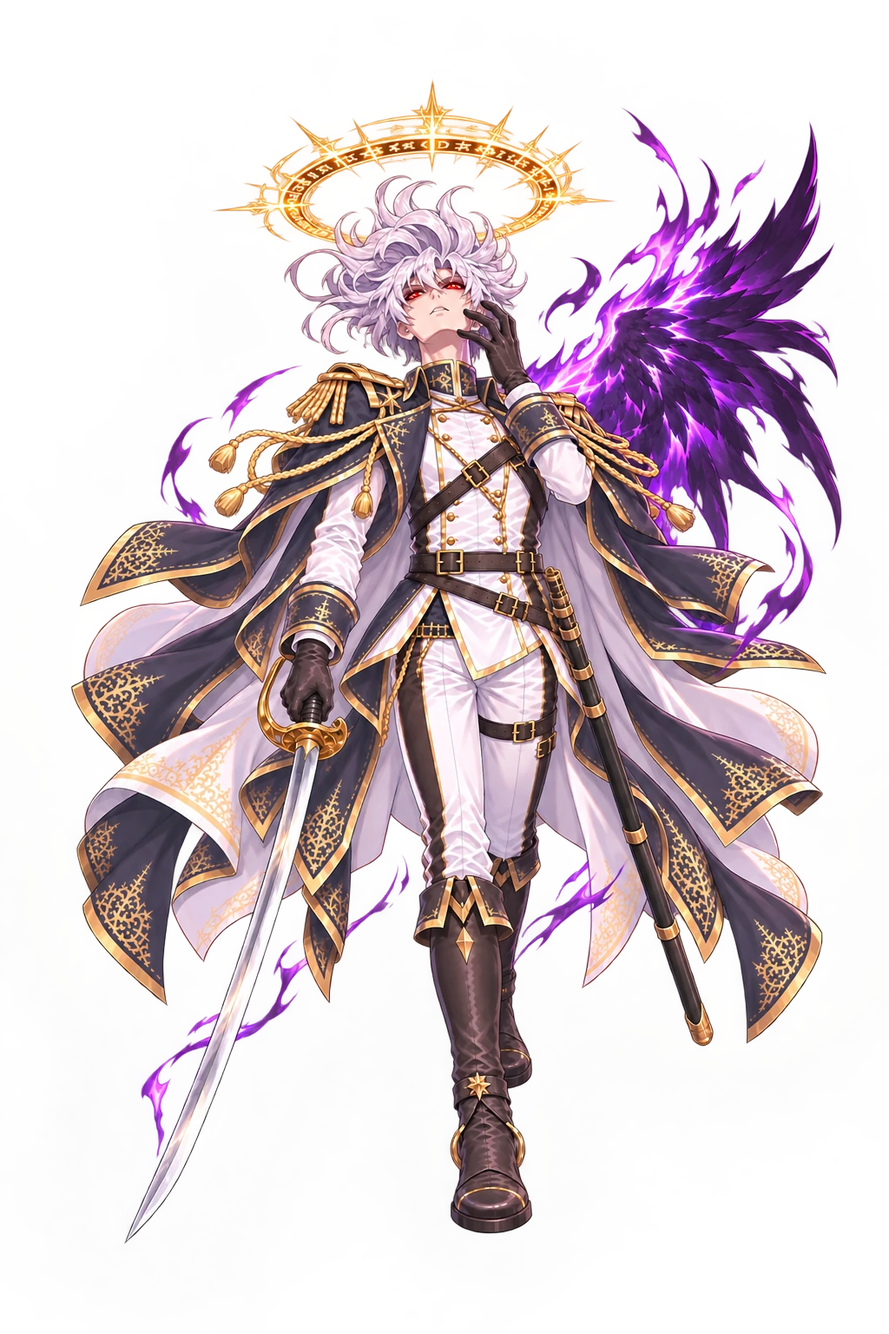
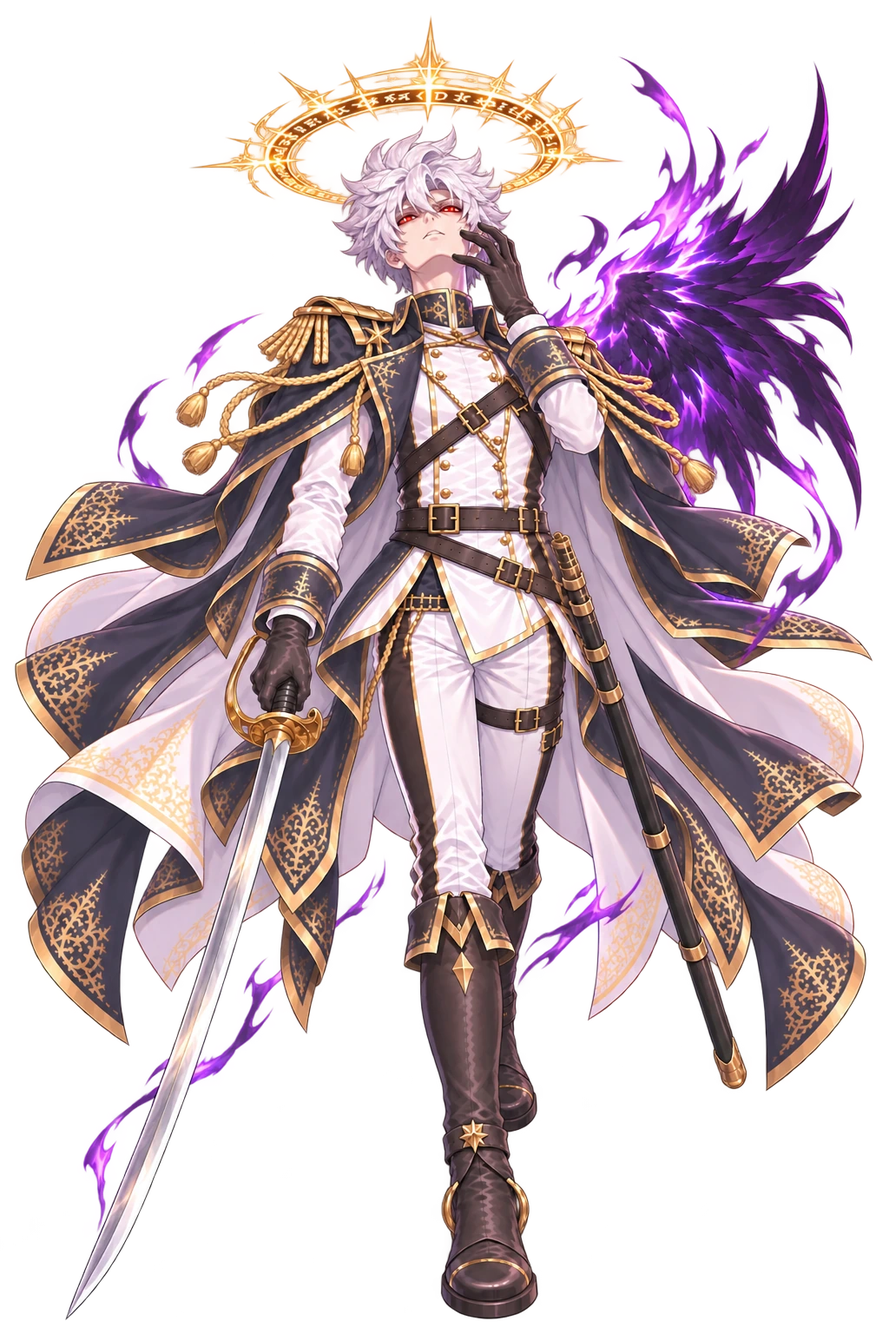
ver -2378 米夏 暴走重出（頭髮長度與畫風照原圖）；地底地圖地名改報「西部大熔谷」（Ray 更正：不是聖王廳那條路），HANDOFF 同步

diff --git a/flight/index.html b/flight/index.html
@@ -3,7 +3,7 @@
 <head>
 <meta charset="utf-8">
 <meta name="viewport" content="width=device-width,initial-scale=1,maximum-scale=1,user-scalable=no,viewport-fit=cover">
-<script src="../orientation.js?v=2377"></script>
+<script src="../orientation.js?v=2378"></script>
 <script>
 /* 介面字譯文（ver -1909）：這一頁是非模組，程式一開跑就讀字串 —— 所以譯文表要**同步**載
    （document.write，只在選了有譯文的語言時）。語言判定與 i18n.js 的 LANG 同一套
@@ -11,7 +11,7 @@
 (function(){
   var l=null; try{ l=localStorage.getItem('tivot.lang'); }catch(e){}
   if(!l){ try{ var n=(navigator.languages&&navigator.languages[0])||navigator.language||''; if(String(n).toLowerCase().indexOf('es')===0) l='es'; }catch(e){} }
-  if(['es'].indexOf(l)>=0) document.write('<script src="../i18n/script/'+l+'.classic.js?v=2377"><\/script><script src="../i18n/ui/'+l+'.classic.js?v=2377"><\/script>');
+  if(['es'].indexOf(l)>=0) document.write('<script src="../i18n/script/'+l+'.classic.js?v=2378"><\/script><script src="../i18n/ui/'+l+'.classic.js?v=2378"><\/script>');
 })();
 function i18nT(s){ var t=window.__TIVOT_TR; return (t && typeof s==='string' && t[s]!=null) ? t[s] : s; }
 document.addEventListener('DOMContentLoaded', function(){
@@ -237,7 +237,7 @@ document.addEventListener('DOMContentLoaded', function(){
   /* ver -2217：門圖含楣（kerberos_gate，＝主遊戲同一張）—— 底圖往上延伸到楣的上緣（--fk-gate-top，負值，layoutFKerb 寫）。
      畫在 ::before：門的子元素（紋章／箭／鉚釘）排在它之後，自然疊在上面。 */
   #fkerbDoor::before{content:'';position:absolute;left:0;right:0;top:var(--fk-gate-top,0px);bottom:0;
-    background-image:url('../resources/vfx/kerberos_gate.webp?v=2377');
+    background-image:url('../resources/vfx/kerberos_gate.webp?v=2378');
     background-repeat:no-repeat;background-size:100% 100%;pointer-events:none;}
   #fkerb.rise #fkerbDoor{transform:translateY(calc(var(--fkerb-rise,0px) * -1));}
   /* 楣與其餘零件：全部是門的子元素＝同一剛體，門上推它們跟著上去
@@ -260,8 +260,8 @@ document.addEventListener('DOMContentLoaded', function(){
       radial-gradient(circle at 50% 22%, rgba(0,0,0,.72) 40%, rgba(0,0,0,0) 78%);
     box-shadow:inset 0 3px 7px rgba(0,0,0,.85);}
   #fkerbGear .fkg-shine{position:absolute;inset:0;mix-blend-mode:screen;opacity:.8;
-    -webkit-mask-image:url("../resources/vfx/kerberos_gear.webp?v=2377");
-    mask-image:url("../resources/vfx/kerberos_gear.webp?v=2377");
+    -webkit-mask-image:url("../resources/vfx/kerberos_gear.webp?v=2378");
+    mask-image:url("../resources/vfx/kerberos_gear.webp?v=2378");
     -webkit-mask-size:100% 100%;mask-size:100% 100%;
     -webkit-mask-repeat:no-repeat;mask-repeat:no-repeat;
     background:linear-gradient(114deg,
@@ -281,8 +281,8 @@ document.addEventListener('DOMContentLoaded', function(){
     filter:drop-shadow(0 3px 7px rgba(0,0,0,.9)) drop-shadow(0 0 2px rgba(0,0,0,.8));}
   #fkerbPend .fkp-shine{position:absolute;inset:0;pointer-events:none;
     mix-blend-mode:screen;opacity:.85;
-    -webkit-mask-image:url("../resources/vfx/kerberos_pendant.webp?v=2377");
-    mask-image:url("../resources/vfx/kerberos_pendant.webp?v=2377");
+    -webkit-mask-image:url("../resources/vfx/kerberos_pendant.webp?v=2378");
+    mask-image:url("../resources/vfx/kerberos_pendant.webp?v=2378");
     -webkit-mask-size:100% 100%;mask-size:100% 100%;
     -webkit-mask-repeat:no-repeat;mask-repeat:no-repeat;
     background:linear-gradient(114deg,
@@ -647,23 +647,23 @@ img:not([src]), img[src=""], img.img-broken{visibility:hidden !important;}
        ⚠ 要有，否則交棒那一格齒輪會憑空冒出來（同吊墜的理由）。
        ⚠ 排在 `.fk-plate` 之前 ＝ 團徽之下、槍棺之上。 -->
   <div id="fkerbGear"><i class="fkg-well"></i>
-    <img src="../resources/vfx/kerberos_gear.webp?v=2377" alt=""><i class="fkg-shine"></i></div>
+    <img src="../resources/vfx/kerberos_gear.webp?v=2378" alt=""><i class="fkg-shine"></i></div>
   <div id="fkerbGearSm"><i class="fkg-well"></i>
-    <img src="../resources/vfx/kerberos_gear.webp?v=2377" alt=""></div>
-  <img class="fk-plate" src="../resources/vfx/kerberos_plate.webp?v=2377" alt="">
-  <img class="fk-arrow n" src="../resources/vfx/kerberos_arrow.webp?v=2377" alt="">
-  <img class="fk-arrow e" src="../resources/vfx/kerberos_arrow.webp?v=2377" alt="">
-  <img class="fk-arrow s" src="../resources/vfx/kerberos_arrow.webp?v=2377" alt="">
-  <img class="fk-arrow w" src="../resources/vfx/kerberos_arrow.webp?v=2377" alt="">
-  <img class="fk-rivet r10" src="../resources/vfx/kerberos_rivet.webp?v=2377" alt="">
-  <img class="fk-rivet r2"  src="../resources/vfx/kerberos_rivet.webp?v=2377" alt="">
-  <img class="fk-rivet r4"  src="../resources/vfx/kerberos_rivet.webp?v=2377" alt="">
-  <img class="fk-rivet r8"  src="../resources/vfx/kerberos_rivet.webp?v=2377" alt="">
+    <img src="../resources/vfx/kerberos_gear.webp?v=2378" alt=""></div>
+  <img class="fk-plate" src="../resources/vfx/kerberos_plate.webp?v=2378" alt="">
+  <img class="fk-arrow n" src="../resources/vfx/kerberos_arrow.webp?v=2378" alt="">
+  <img class="fk-arrow e" src="../resources/vfx/kerberos_arrow.webp?v=2378" alt="">
+  <img class="fk-arrow s" src="../resources/vfx/kerberos_arrow.webp?v=2378" alt="">
+  <img class="fk-arrow w" src="../resources/vfx/kerberos_arrow.webp?v=2378" alt="">
+  <img class="fk-rivet r10" src="../resources/vfx/kerberos_rivet.webp?v=2378" alt="">
+  <img class="fk-rivet r2"  src="../resources/vfx/kerberos_rivet.webp?v=2378" alt="">
+  <img class="fk-rivet r4"  src="../resources/vfx/kerberos_rivet.webp?v=2378" alt="">
+  <img class="fk-rivet r8"  src="../resources/vfx/kerberos_rivet.webp?v=2378" alt="">
   <!-- 吊墜（ver -412）：與主遊戲同一套（見 index.html 的 #kerbPend 與 style.css）。
        ⚠ 這一頁**必須也有** —— 遭遇時門是在這裡推上來的，交棒之後主遊戲那一半才接手；
          只有一邊掛吊墜的話，交棒那一格會憑空多出一個東西。 -->
   <div id="fkerbPend"><div class="fkp-swing"><div class="fkp-idle">
-    <img src="../resources/vfx/kerberos_pendant.webp?v=2377" alt=""><i class="fkp-shine"></i>
+    <img src="../resources/vfx/kerberos_pendant.webp?v=2378" alt=""><i class="fkp-shine"></i>
   </div></div></div>
 </div></div>
 <div id="boot">
@@ -685,11 +685,11 @@ img:not([src]), img[src=""], img.img-broken{visibility:hidden !important;}
   <div id="bMsg"><small id="bootMsg"></small></div>
 </div>
 
-<script src="settlement.js?v=2377"></script>
+<script src="settlement.js?v=2378"></script>
 <!-- 閒聊對話的**內容**獨立成一支：方便加台詞、加觸發條件而不必碰引擎。
      ⚠ 一般 <script>（非 module）→ TALKS / talkPeriod / talkPick 是全域，
        而且會在下面這段 inline 之前執行完，所以 inline 內可以直接用。 -->
-<script src="talks.js?v=2377"></script>
+<script src="talks.js?v=2378"></script>
 <script>
 /* 破圖框一律不畫（ver -1881，同主頁 main.js 那一支，這一頁是另一個 document）。 */
 document.addEventListener('error', e=>{ const t=e.target; if(t && t.tagName==='IMG') t.classList.add('img-broken'); }, true);
@@ -765,7 +765,7 @@ const COLOR_URL  = 'silvermoon_terrain.png?v=b18827be'  + TERRAIN_V;
    以前是手寫的，於是從 -911 起就沒有人記得動它 —— 而 HUD 上的版本號正是 Ray
    在手機上確認「我現在跑的是哪一版」的唯一依據（鐵律 7：一個量一個計算點；
    ver -626：版本號不動就等於沒有版本號）。**不要手改。** */
-const FLIGHT_VER = 'ver -2377';
+const FLIGHT_VER = 'ver -2378';
 const MAP_SCALE  = /[?&]world=cave/.test(location.search) ? 10 : 20;   // 地底的圖加密成 1536²（ver -2369，build_cave.py 的 SUPER）：一格 10 世界單位，世界大小不變
 const INV_SCALE  = 1/MAP_SCALE;
 const PEAK_SCALE = 520;   // 高度圖 255 對應的世界高度（越大山越陡）
@@ -7152,7 +7152,7 @@ function caveRoomTick(){
   caveRoomNow=hit;
   const R=CAVE_ROOMS[hit], pn=document.getElementById('place');
   document.getElementById('pnm').textContent=R[0];
-  document.getElementById('pty').textContent=R[6]?'—　往聖王廳 G3　—':'—　地底大空洞　—';
+  document.getElementById('pty').textContent='—　西部大熔谷　—';
   pn.classList.add('show');
   clearTimeout(caveRoomT); caveRoomT=setTimeout(()=>pn.classList.remove('show'), R[6]?4000:1800);
 }

diff --git a/index.html b/index.html
@@ -16,7 +16,7 @@
 <link rel="apple-touch-icon" href="resources/background/tivot_emblem.png?v=9220f8bb">
 <title>TIVOT</title>
 <!-- 全域鎖直向（真鎖 + 橫向擋板）；classic script，需在版面就緒前掛上 -->
-<script src="orientation.js?v=2377"></script>
+<script src="orientation.js?v=2378"></script>
 <!-- 離線包（ver -2256）：註冊 sw.js；主畫面 App 裡出現「下載離線包」鈕 -->
 <script src="offline.js"></script>
 <!-- ══ 效能探針・計數層（ver -850，Ray：「沒有辦法寫一個偵測程式進去看是什麼
@@ -65,74 +65,74 @@
 <script type="importmap">
 {
   "imports": {
-    "./audio.js": "./audio.js?v=2377",
-    "./config.js": "./config.js?v=2377",
-    "./i18n.js": "./i18n.js?v=2377",
-    "./main.js": "./main.js?v=2377",
-    "./offline.js": "./offline.js?v=2377",
-    "./orientation.js": "./orientation.js?v=2377",
-    "./state.js": "./state.js?v=2377",
-    "./sw.js": "./sw.js?v=2377",
-    "./telemetry.js": "./telemetry.js?v=2377",
-    "./modules/beatpick.js": "./modules/beatpick.js?v=2377",
-    "./modules/blink.js": "./modules/blink.js?v=2377",
-    "./modules/breath.js": "./modules/breath.js?v=2377",
-    "./modules/combat.js": "./modules/combat.js?v=2377",
-    "./modules/defense.js": "./modules/defense.js?v=2377",
-    "./modules/enemy.js": "./modules/enemy.js?v=2377",
-    "./modules/eyefx.js": "./modules/eyefx.js?v=2377",
-    "./modules/gear.js": "./modules/gear.js?v=2377",
-    "./modules/groundShadow.js": "./modules/groundShadow.js?v=2377",
-    "./modules/haptics.js": "./modules/haptics.js?v=2377",
-    "./modules/inn.js": "./modules/inn.js?v=2377",
-    "./modules/inspector.js": "./modules/inspector.js?v=2377",
-    "./modules/loot.js": "./modules/loot.js?v=2377",
-    "./modules/partner.js": "./modules/partner.js?v=2377",
-    "./modules/saint.js": "./modules/saint.js?v=2377",
-    "./modules/sakura.js": "./modules/sakura.js?v=2377",
-    "./modules/save.js": "./modules/save.js?v=2377",
-    "./modules/settings.js": "./modules/settings.js?v=2377",
-    "./modules/story.js": "./modules/story.js?v=2377",
-    "./modules/sway.js": "./modules/sway.js?v=2377",
-    "./modules/tone.js": "./modules/tone.js?v=2377",
-    "./modules/town.js": "./modules/town.js?v=2377",
-    "./modules/transition.js": "./modules/transition.js?v=2377",
-    "./modules/tutorial.js": "./modules/tutorial.js?v=2377",
-    "./modules/weapon.js": "./modules/weapon.js?v=2377",
-    "./script/bg_index.js": "./script/bg_index.js?v=2377",
-    "./script/blink.js": "./script/blink.js?v=2377",
-    "./script/clock.js": "./script/clock.js?v=2377",
-    "./script/enemies.js": "./script/enemies.js?v=2377",
-    "./script/evaluation.js": "./script/evaluation.js?v=2377",
-    "./script/eyefx.js": "./script/eyefx.js?v=2377",
-    "./script/inventory.js": "./script/inventory.js?v=2377",
-    "./script/loadout.js": "./script/loadout.js?v=2377",
-    "./script/mainScript.js": "./script/mainScript.js?v=2377",
-    "./script/progress.js": "./script/progress.js?v=2377",
-    "./script/shopcards.js": "./script/shopcards.js?v=2377",
-    "./script/shopstock.js": "./script/shopstock.js?v=2377",
-    "./script/speakers.js": "./script/speakers.js?v=2377",
-    "./script/sway.js": "./script/sway.js?v=2377",
-    "./script/town.js": "./script/town.js?v=2377",
-    "./script/weapons.js": "./script/weapons.js?v=2377",
-    "./i18n/en.js": "./i18n/en.js?v=2377",
-    "./i18n/es.js": "./i18n/es.js?v=2377",
-    "./i18n/ja.js": "./i18n/ja.js?v=2377",
-    "./i18n/scriptTr.js": "./i18n/scriptTr.js?v=2377",
-    "./i18n/zh.js": "./i18n/zh.js?v=2377",
-    "./i18n/script/es.classic.js": "./i18n/script/es.classic.js?v=2377",
-    "./i18n/script/es.js": "./i18n/script/es.js?v=2377",
-    "./i18n/ui/es.classic.js": "./i18n/ui/es.classic.js?v=2377",
-    "./i18n/ui/es.js": "./i18n/ui/es.js?v=2377"
+    "./audio.js": "./audio.js?v=2378",
+    "./config.js": "./config.js?v=2378",
+    "./i18n.js": "./i18n.js?v=2378",
+    "./main.js": "./main.js?v=2378",
+    "./offline.js": "./offline.js?v=2378",
+    "./orientation.js": "./orientation.js?v=2378",
+    "./state.js": "./state.js?v=2378",
+    "./sw.js": "./sw.js?v=2378",
+    "./telemetry.js": "./telemetry.js?v=2378",
+    "./modules/beatpick.js": "./modules/beatpick.js?v=2378",
+    "./modules/blink.js": "./modules/blink.js?v=2378",
+    "./modules/breath.js": "./modules/breath.js?v=2378",
+    "./modules/combat.js": "./modules/combat.js?v=2378",
+    "./modules/defense.js": "./modules/defense.js?v=2378",
+    "./modules/enemy.js": "./modules/enemy.js?v=2378",
+    "./modules/eyefx.js": "./modules/eyefx.js?v=2378",
+    "./modules/gear.js": "./modules/gear.js?v=2378",
+    "./modules/groundShadow.js": "./modules/groundShadow.js?v=2378",
+    "./modules/haptics.js": "./modules/haptics.js?v=2378",
+    "./modules/inn.js": "./modules/inn.js?v=2378",
+    "./modules/inspector.js": "./modules/inspector.js?v=2378",
+    "./modules/loot.js": "./modules/loot.js?v=2378",
+    "./modules/partner.js": "./modules/partner.js?v=2378",
+    "./modules/saint.js": "./modules/saint.js?v=2378",
+    "./modules/sakura.js": "./modules/sakura.js?v=2378",
+    "./modules/save.js": "./modules/save.js?v=2378",
+    "./modules/settings.js": "./modules/settings.js?v=2378",
+    "./modules/story.js": "./modules/story.js?v=2378",
+    "./modules/sway.js": "./modules/sway.js?v=2378",
+    "./modules/tone.js": "./modules/tone.js?v=2378",
+    "./modules/town.js": "./modules/town.js?v=2378",
+    "./modules/transition.js": "./modules/transition.js?v=2378",
+    "./modules/tutorial.js": "./modules/tutorial.js?v=2378",
+    "./modules/weapon.js": "./modules/weapon.js?v=2378",
+    "./script/bg_index.js": "./script/bg_index.js?v=2378",
+    "./script/blink.js": "./script/blink.js?v=2378",
+    "./script/clock.js": "./script/clock.js?v=2378",
+    "./script/enemies.js": "./script/enemies.js?v=2378",
+    "./script/evaluation.js": "./script/evaluation.js?v=2378",
+    "./script/eyefx.js": "./script/eyefx.js?v=2378",
+    "./script/inventory.js": "./script/inventory.js?v=2378",
+    "./script/loadout.js": "./script/loadout.js?v=2378",
+    "./script/mainScript.js": "./script/mainScript.js?v=2378",
+    "./script/progress.js": "./script/progress.js?v=2378",
+    "./script/shopcards.js": "./script/shopcards.js?v=2378",
+    "./script/shopstock.js": "./script/shopstock.js?v=2378",
+    "./script/speakers.js": "./script/speakers.js?v=2378",
+    "./script/sway.js": "./script/sway.js?v=2378",
+    "./script/town.js": "./script/town.js?v=2378",
+    "./script/weapons.js": "./script/weapons.js?v=2378",
+    "./i18n/en.js": "./i18n/en.js?v=2378",
+    "./i18n/es.js": "./i18n/es.js?v=2378",
+    "./i18n/ja.js": "./i18n/ja.js?v=2378",
+    "./i18n/scriptTr.js": "./i18n/scriptTr.js?v=2378",
+    "./i18n/zh.js": "./i18n/zh.js?v=2378",
+    "./i18n/script/es.classic.js": "./i18n/script/es.classic.js?v=2378",
+    "./i18n/script/es.js": "./i18n/script/es.js?v=2378",
+    "./i18n/ui/es.classic.js": "./i18n/ui/es.classic.js?v=2378",
+    "./i18n/ui/es.js": "./i18n/ui/es.js?v=2378"
   }
 }
 </script>
 <!-- BUST:END -->
-<link rel="stylesheet" href="style.css?v=2377">
+<link rel="stylesheet" href="style.css?v=2378">
   <!-- 拾得道具／道具欄／商店／懸賞榜（ver -380 抽出，飛行頁共用同一份）。
        ⚠ `data-lootsheet` 是給 `modules/loot.js` 認的：它看到已經掛過就不再掛一次。
          飛行頁沒有這一行，由那支模組自己掛上去。 -->
-  <link rel="stylesheet" href="css/lootsheet.css?v=2377" data-lootsheet="1">
+  <link rel="stylesheet" href="css/lootsheet.css?v=2378" data-lootsheet="1">
 <!-- 主畫面 App（standalone）偵測：首繪前在 <html> 蓋 .standalone，
      供 CSS 修 iOS 26 版面視窗少算頂部安全區高度（底部露黑帶）的問題 -->
 <script>
@@ -778,6 +778,6 @@
      ⚠ src 是**按下去才給**的（lazy）：不然每次開機都要多載一整個飛行頁。 -->
 <iframe id="flightFrame" title="飛行"></iframe>
 
-<script type="module" src="main.js?v=2377"></script>
+<script type="module" src="main.js?v=2378"></script>
 </body>
 </html>

diff --git a/script/speakers.js b/script/speakers.js
@@ -1657,7 +1657,7 @@ export const ART = {
     draw:       { src:'resources/si/misha_si_draw.webp?v=68b1b653', top:6, bot:1534, fx:0.434 },   // ver -1728：Ray 新出的拔刀圖（姿勢換了，取景重量；美術 09-25）
     salute:     { src:'resources/si/misha_si_salute.webp', top:9, bot:1520, fx:0.447 },
     side:       { src:'resources/si/misha_si_side.webp', top:16, bot:1512, fx:0.37 },
-    '暴走':     { fxShift:0, blink:'off', rescale:true, src:'resources/si/misha_si_coverfaceni.webp?v=83131ae8', top:205, bot:1419, fx:0.496 },   // ver -2377（Ray 11-03）：以新抓臉為底的暴走聖徒化 —— 頭髮因力量升騰、臉微仰、赤眼往下看、冷而銳；金色符文天使環＋右後方紫黑火焰之翼（1024×1536）；top/bot 量人不量翼與法環
+    '暴走':     { fxShift:0, blink:'off', rescale:true, src:'resources/si/misha_si_coverfaceni.webp?v=78bb54bf', top:152, bot:1518, fx:0.483 },   // ver -2378（Ray 11-03）：以新抓臉為底的暴走聖徒化，-2378 頭髮長度與畫風照原圖重出 —— 短髮因力量升騰、臉微仰、赤眼往下看、冷而銳；金色符文天使環＋右後方紫黑火焰之翼（1024×1536）；top/bot 量人不量翼與法環
     '抓臉閉嘴': { blink:'off', src:'resources/si/misha_si_coverfaceshut.webp?v=58da9959', top:8, bot:1512, fx:0.470 },   // ver -2356（Ray：「咬牙 閉嘴兩張都收」）：同抓臉（-2357 更陰暗），嘴緊閉不露牙
     '抓臉':     { blink:'off', src:'resources/si/misha_si_coverface.webp?v=bcf9a94c', top:0, bot:1525, fx:0.535 },   // ver -2377（Ray 11-03 交新圖）：左手戴黑手套扣臉、指縫露冷眼、咬牙、右手持軍刀、長鞘掛左；以下為舊版說明 —— ver -2356（Ray）：front 為底；森冷銳利、咬牙、臉上半部壓陰影、冷光眼（-2357 更陰暗）；左手插髮扣臉、銀髮穿過指縫、冷眼從指縫露出；右手持畜生道長刀、長鞘掛左腰
     wound:      { fxShift:0, blink:'off', src:'resources/si/misha_si_wound.webp?v=3a49219d', top:34, bot:1499, fx:0.403 },

diff --git a/config.js b/config.js
@@ -87,7 +87,7 @@ export const HITFX = {
  *     以為是快取卡住 —— 版本號不動就等於沒有版本號）。
  *  ⚠ 它同時是**暖開機戳記的鑰匙**（main.js 的 `WARM_BOOT`）：版本一變，
  *    上一版的戳記就失效 → 下一次開機重跑完整讀取。那正是改版後該有的行為。 */
-export const VERSION = 'ver 2026.11.03-2377';
+export const VERSION = 'ver 2026.11.03-2378';
 
 /* ══ 空中怪 16 隻的戰鬥卡（ver -2268）══ 每一隻一張 `flight_<鍵>`（飛行頁 `battleIdFor` 的命名），
    內容同羽蛇那一場：船戰、艦載武器音、連射間隔 180ms。⚠ 這份鍵清單在三處：這裡／
@@ -6154,7 +6154,7 @@ export const ASSET_VER = {
   'misha_si_closeopen_closed': '658c29c2',
   'misha_si_closeopen_half': '0379d48b',
   'misha_si_coverface': 'bcf9a94c',
-  'misha_si_coverfaceni': '83131ae8',
+  'misha_si_coverfaceni': '78bb54bf',
   'misha_si_coverfaceshut': '58da9959',
   'misha_si_draw': '68b1b653',
   'misha_si_draw_closed': 'ff69810f',

diff --git a/modules/story.js b/modules/story.js
@@ -3588,7 +3588,7 @@ const KERB_DIR='resources/vfx/';
    cache-buster（§5：檔名沒變、內容變了，瀏覽器照樣拿舊的那一份，而症狀只是
    「看起來沒變」）。版本號由 `tools/bust.py` 同步，路徑只由 `kerbUrl()` 組（鐵律 8）——
    飛行頁那一半是另一個 document，各有一份，改一邊要改另一邊。 */
-const KERB_V='?v=2377';
+const KERB_V='?v=2378';
 const kerbUrl=n=>KERB_DIR+n+'.webp'+KERB_V;
 /* 門的圖（ver -2218）：**每一道門都要先載完**（劇情讀取頁 `preloadStory`、城鎮那道 `loadScene`）——
    Ray：「讀圖的時候先跑槍棺出來才讀楣」「往上推的時候楣會消失」：合成後的 `kerberos_gate`（門＋楣）

diff --git a/HANDOFF.md b/HANDOFF.md
@@ -32,7 +32,8 @@
 - **紫月軍一般步兵小隊**：照里朋一家的群戰分層作法。**小隊 1 定案並拆層**（`resources/enemy/man_purple_squad_1_layers/`，spec `resources/enemy/_purple_spec.md`），敵人卡 `purple_squad_1`、戰鬥卡 `ws_purple_1`（數值暫抄 thug_squad，還沒有腳本引用）。
   **小隊 2~7 群體圖已出、未拆、未 commit**（`resources/_originals/enemy/man_purple_squad_{2..7}.png`，Ray 還沒看）。
 
-## 地底世界／聖王廳路線（11-02，Ray 定案）
+## 地底世界（11-02 起）
+> ⚠⚠ **ver -2378 Ray 更正：現在做的這張地底地圖是「西部大熔谷」，不是聖王廳那一條路。** 下面「路線」那兩行是聖王廳的另一件事（仍有效，但還沒有圖）；`?world=cave` 這一張與它無關，遊戲內地名已改報「西部大熔谷」。
 - **路線**：峽谷 → **地底大空洞（開船穿梭）** → 通到**聖王廳 G3**。所以聖王廳地宮只玩 **G3、G4 兩層**（一般拓樸＋追擊者）。
   可行的理由（劇情上要交代）：**賽西莉入隊**，她精巧的術式控制讓船能在地底空洞行駛。
 - **遺蹟那張大地圖改成地底世界**：地底大空洞、發光植物、天頂孔洞引入地表光。
@@ -47,14 +48,14 @@
 - ⚠ ver -2371 修了一個會刪程式的 bug：`build_cave.py` 寫回 `CAVE_PLANTS` 的正規式跨行，行尾有註解時一路吃到下一個 `];`（刪掉 39 行，已從上一版補回）；現在一律只比對單行。
 - ✔ ver -2372：**植物縮小且尺寸不一**（路燈 0.26~0.6、成片 0.05~0.26 偏小，×360）；**三種掛法**＝`CAVE_PLANTS` 第六欄 mount：0 地上／1 牆上（飛行頁往四周找最近的岩壁，根貼牆、往外上翹 29°~55°）／2 天頂（倒掛；垂藤照原圖上掛下垂）。實測 315 株：地上 148／牆上 85／天頂 82。**首頁「試飛」改成選單**（地表／地底，`flightHub` → `startChapter(FLIGHT_TEST,{world:'cave'})` → `openFlight` 的 `flightWorld`；打完回程沿用、其餘一律回地表）。
 - ✔ ver -2373：**地面發光苔加量**（Ray：「有點太暗了」）：每一間都有苔（沒寫 glow 的當 0.5）、門檻放寬約一倍面積、亮度下限 0.6；通道苔門檻 0.74→0.6、亮度 0.55；溢光圖裡苔的權重 ×1.4。⚠ 多出來的 fbm 改變了亂數序列，植物／水晶／深谷的位置跟著重擲（連通照樣全通）。
-- ✔ ver -2374：**終點＝無底大空間**（`build_cave.py`：Z 移到 (658,118) 半徑 98＝1960 世界單位≈全速 5 秒到中心，O 往西挪；整間地面壓到 `ABYSS_H` 56、地貌 14 ＝灰黑雲海；沒有洞口／水晶／植物／苔，落進去的路燈與水晶也濾掉）。飛行頁：`CAVE_END`／`caveStarK`／`drawCaveAbyss` —— 離中心 1550 內浮現點點星光、1400 內中心淡金星與十字星芒隱約可見；雲海只被星光照亮（`uStar`）。**地底的地圖**不畫國界／路／聚落／隱藏點／目的地與釘選，「已發現」「地圖編輯」兩顆鈕藏起來，`openMapEdit` 在地底直接 return（鐵律 14：大陸的 map_edits 座標系不同）。**地底不准開加速**（`featureOn('sturm')` 在 CAVE 回 false）。⚠ 尚未做：飛到星之後要發生什麼（轉聖王廳 G3）。
+- ✔ ver -2374：**終點＝無底大空間**（`build_cave.py`：Z 移到 (658,118) 半徑 98＝1960 世界單位≈全速 5 秒到中心，O 往西挪；整間地面壓到 `ABYSS_H` 56、地貌 14 ＝灰黑雲海；沒有洞口／水晶／植物／苔，落進去的路燈與水晶也濾掉）。飛行頁：`CAVE_END`／`caveStarK`／`drawCaveAbyss` —— 離中心 1550 內浮現點點星光、1400 內中心淡金星與十字星芒隱約可見；雲海只被星光照亮（`uStar`）。**地底的地圖**不畫國界／路／聚落／隱藏點／目的地與釘選，「已發現」「地圖編輯」兩顆鈕藏起來，`openMapEdit` 在地底直接 return（鐵律 14：大陸的 map_edits 座標系不同）。**地底不准開加速**（`featureOn('sturm')` 在 CAVE 回 false）。⚠ 尚未做：飛到星之後要發生什麼（⚠ 不是轉聖王廳 —— 這張是西部大熔谷，去向待 Ray 定）。
 - ✔ ver -2375：**中心星可以靠近接觸**：光芯改成世界尺寸（`CAVE_STAR_CORE` 130，飛近真的變大），離中心 260 內整個視野浸成淡金；**光芯裡有安雅的剪影**（`caveAnyaSil`：借 `anya_si_sleep` 的 alpha 塗成暖黑、裁外框、輕微上下浮動，`CAVE_ANYA_H` 150；星芒畫在剪影後面）。⚠ 那張是「坐著蜷起來睡」不是真的胎兒式蜷縮 —— 要更像蜷縮得另外產一張剪影用的圖。
 - ⏳ ver -2376：安雅剪影改成**程式畫的暫代**（`drawAnyaSil`：側面抱膝＋往後漂的髮束，`CAVE_ANYA_H` 34≈船的螺旋槳，緩緩上下飄 `CAVE_ANYA_BOB`）。Ray：「挺怪的，晚點我再出圖給你」—— **等 Ray 交剪影圖，到時換成貼圖**（側面、蜷縮、頭髮散開、很小）。
 - ✔ ver -2364：地圖改成 **16 間空腔＋19 條岩穴通道**（768²），拓樸寫在 `build_cave.py` 的 ROOMS／LINKS（檔頭有圖）：
-  主線 入口窟→大廳→深淵→蕈林→鐘乳廳→前庭→**終點（往聖王廳 G3）**；兩條支路、兩條死路（晶洞→迴音井、暗河）。
-  每間的大小／深淺／天頂高度／內容（水晶、石柱、天頂瀑布、湖、發光植物、洞口）各自不同；進一間就在上方報名字，終點報「往聖王廳 G3」。
+  主線 入口窟→大廳→深淵→蕈林→鐘乳廳→前庭→**終點（無底大空間）**；兩條支路、兩條死路（晶洞→迴音井、暗河）。
+  每間的大小／深淺／天頂高度／內容（水晶、石柱、天頂瀑布、湖、發光植物、洞口）各自不同；進一間就在上方報名字，（-2378 起一律報「西部大熔谷」）。
   產生器跑完會自檢「船能走的地方是否全部連通」。
-- 還沒做：峽谷的入口與終點接聖王廳 G3 的實際轉場、地底的遭遇戰、CPU 退路、聖王廳 G3/G4 的拓樸設計。
+- 還沒做：西部大熔谷的入口與終點去向（待 Ray 定）；聖王廳那條路（峽谷→地底→G3）另做、地底的遭遇戰、CPU 退路、聖王廳 G3/G4 的拓樸設計。
 
 ## 等 Ray 決定
 1. **試玩版上線方式**：主 repo `raykueco-debug/TIVOT` 是公開的、GitHub Pages 有完整遊戲 —— 建議主 repo 改名設私人、另開公開 repo 只放 `tools/challenge_build/dist`。部署腳本還沒寫。
